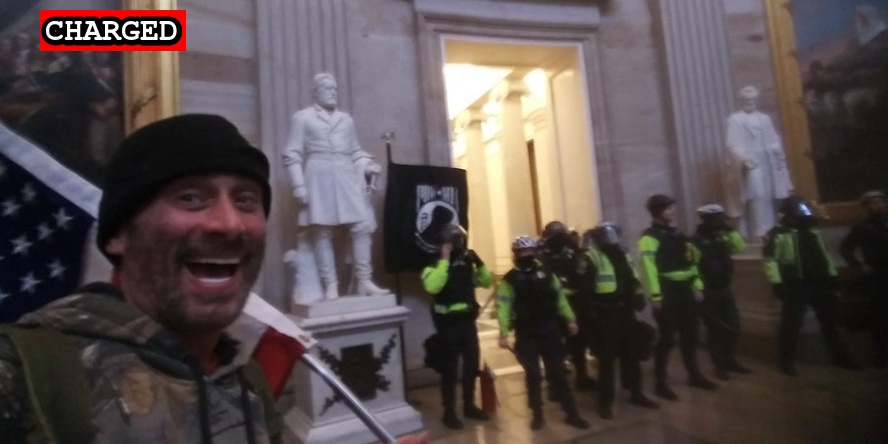
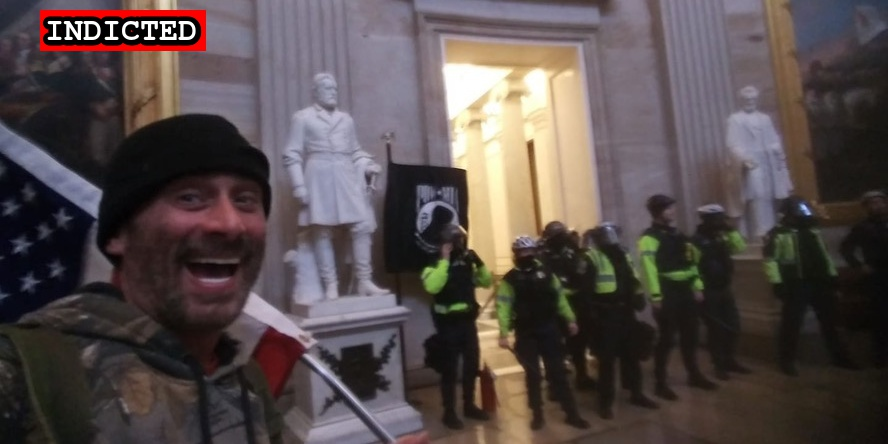
New indictments

Changed region(s): [[0.0304, 0.0, 0.2432, 0.1171]]

diff --git a/commands/suspect-import.ts b/commands/suspect-import.ts
@@ -287,7 +287,7 @@ const linkType = (description: string, lastName?: string) => {
         return "Statement of Facts"
       case /Indictment/.test(description):
       case /indictment/.test(description):
-      case /caldwell_et_al_4th_ss.pdf/.test(description):
+      case /caldwell_et_al.*/.test(description):
         return "Indictment"
       case /Ammended Complaint/.test(description):
         return "Ammended Complaint"

diff --git a/docs/_suspects/anthony-williams.md b/docs/_suspects/anthony-williams.md
@@ -3,13 +3,14 @@ name: Anthony Williams
 lastName: Williams
 aka:
 residence: Michigan
-status: Charged
+status: Indicted
 date: 2021-03-24
 charged: 2021-03-24
-indicted:
-convicted: 
-sentenced: 
-dismissed: 
+indicted: 2021-05-26
+convicted:
+sentenced:
+dismissed:
+deceased:
 age: 45
 occupation:
 affiliations:
@@ -21,7 +22,7 @@ courtroom:
 courthouse:
 raid:
 perpwalk:
-quote: "... we took this fucking building."
+quote: '... we took this fucking building.'
 title: Anthony Williams charged on March 24, 2021
 description: Click for latest case details. Suspects innocent until proven guilty.
 author: seditiontrack
@@ -29,7 +30,9 @@ layout: suspect
 published: true
 charges:
 ---
+
 - [News Report](https://www.clickondetroit.com/news/defenders/2021/03/26/southgate-man-charged-in-connection-with-deadly-attack-on-us-capitol/)
 - [Complaint](https://www.justice.gov/usao-dc/case-multi-defendant/file/1380276/download)
 - [DOJ Press Release](https://www.justice.gov/usao-dc/case-multi-defendant/file/1380286/download)
 - [Statement of Facts](https://www.justice.gov/usao-dc/case-multi-defendant/file/1380286/download)
+- [Indictment](https://www.justice.gov/usao-dc/case-multi-defendant/file/1412756/download)

diff --git a/docs/_suspects/kurt-peterson.md b/docs/_suspects/kurt-peterson.md
@@ -3,13 +3,14 @@ name: Kurt Peterson
 lastName: Peterson
 aka:
 residence: Kentucky
-status: Charged
+status: Indicted
 date: 2021-06-16
 charged: 2021-06-16
-indicted:
-convicted: 
-sentenced: 
-dismissed: 
+indicted: 2021-06-23
+convicted:
+sentenced:
+dismissed:
+deceased:
 age:
 occupation:
 affiliations:
@@ -21,7 +22,7 @@ courtroom:
 courthouse:
 raid:
 perpwalk:
-quote: "I stood at the door and told everyone that we were not there to hurt anybody or damage anything..."
+quote: 'I stood at the door and told everyone that we were not there to hurt anybody or damage anything...'
 title: Kurt Peterson arrested on June 16, 2021
 description: Click for latest case details. Suspects innocent until proven guilty.
 author: seditiontrack
@@ -29,5 +30,7 @@ layout: suspect
 published: true
 charges:
 ---
+
 - [News Story](https://www.whas11.com/article/news/crime/arrest-kurt-peterson-hodgenville-capitol-riot/417-10893ffb-00ba-4977-991a-3996fd089803)
 - [Statement of Facts](https://s3.documentcloud.org/documents/20892443/peterson.pdf)
+- [Indictment](https://www.justice.gov/usao-dc/case-multi-defendant/file/1412801/download)

diff --git a/docs/_suspects/roberto-minuta.md b/docs/_suspects/roberto-minuta.md
@@ -3,13 +3,14 @@ name: Roberto Minuta
 lastName: Minuta
 aka:
 residence: New Jersey
-status: Charged
+status: Indicted
 date: 2021-03-06
 charged: 2021-03-06
-indicted:
-convicted: 
-sentenced: 
-dismissed: 
+indicted: 2021-05-26
+convicted:
+sentenced:
+dismissed:
+deceased:
 age: 36
 occupation: Owner, Tattoo Parlor
 affiliations: Oath Keepers
@@ -29,5 +30,7 @@ layout: suspect
 published: true
 charges:
 ---
+
 - [News Report](https://www.nbcnewyork.com/investigations/roger-stone-associate-with-oath-keepers-ties-arrested-on-capitol-riot-charges/2930533/)
 - [Statement of Facts](https://extremism.gwu.edu/sites/g/files/zaxdzs2191/f/Roberto%20Minuta%20Criminal%20Complaint%20and%20Affidavit_Redacted.pdf)
+- [Indictment](https://www.justice.gov/usao-dc/case-multi-defendant/file/1410751/download)

diff --git a/docs/_suspects/thomas-gallagher.md b/docs/_suspects/thomas-gallagher.md
@@ -8,8 +8,9 @@ date: 2021-01-21
 charged: 2021-01-21
 indicted: 2021-01-15
 convicted: 2021-07-15
-sentenced: 
+sentenced:
 dismissed: 
+deceased:
 age: 61
 occupation:
 affiliations:
@@ -40,3 +41,4 @@ charges:
 - [Complaint](https://www.justice.gov/opa/press-release/file/1351716/download)
 - [Statement of Facts](https://www.justice.gov/opa/press-release/file/1351721/download)
 - [Indictment](https://www.justice.gov/usao-dc/case-multi-defendant/file/1364786/download)
+- [Plea Agreement](https://www.justice.gov/usao-dc/case-multi-defendant/file/1412696/download)

diff --git a/docs/_suspects/brittiany-dillon.md b/docs/_suspects/brittiany-dillon.md
@@ -33,3 +33,4 @@ charges:
 - [News Report](https://www.thedailybeast.com/active-duty-marine-christopher-warnagiris-charged-for-capitol-riot)
 - [Statement of Facts](https://extremism.gwu.edu/sites/g/files/zaxdzs2191/f/Brittiany%20Dillon%20Statement%20of%20Facts.pdf)
 - [Information](https://www.justice.gov/usao-dc/case-multi-defendant/file/1412381/download)
+- [Plea Agreement](https://www.justice.gov/usao-dc/case-multi-defendant/file/1412686/download)
